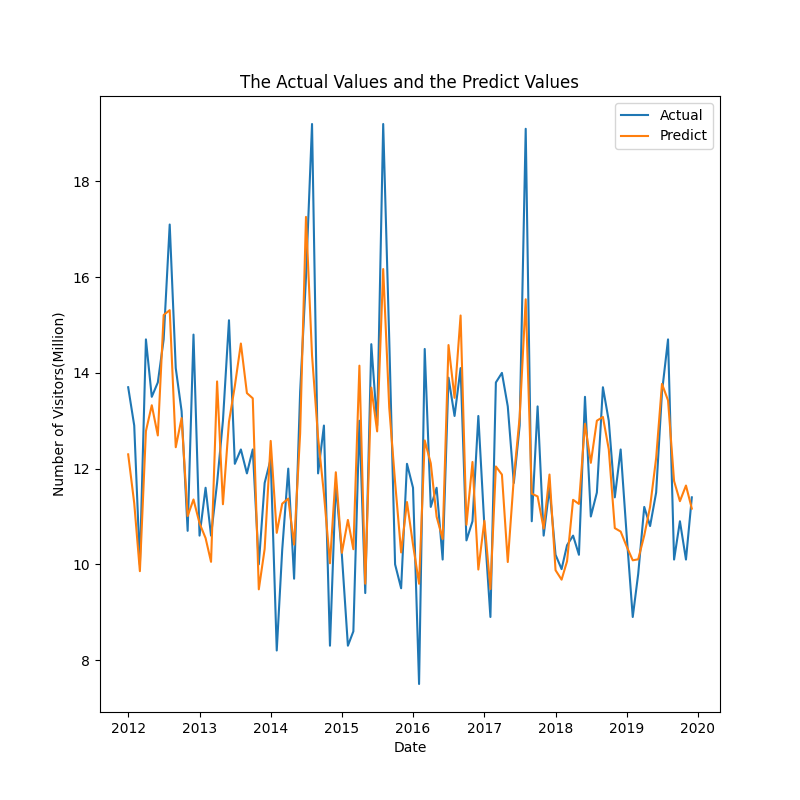
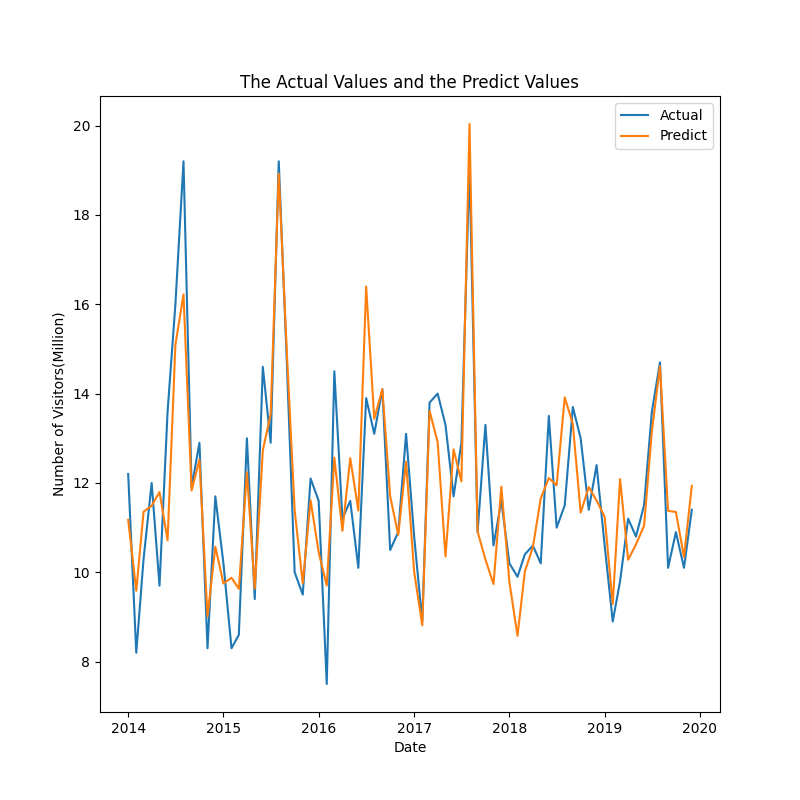
New ARIMA.png and the Chi-square=0.8 and the MAE is 3.8

diff --git a/timeSeries.py b/timeSeries.py
@@ -27,7 +27,7 @@ for item in list:
     plt.title('Number of visistors in '+item[1])
     plt.savefig('timeSeries/'+item[0]+'_time_series.png')
     plt.show()
-list=[12.29819540279861, 11.278485825731076, 9.85705219195776, 12.783605355143383, 13.324147350708994, 12.692912311176851, 15.210175550265769, 15.31063863967911, 12.446807405356695, 13.055550853382137, 11.008618216675362, 11.3551891262509, 10.858375997995577, 10.547890557784164, 10.052595820821091, 13.821665376065091, 11.255565596769356, 12.978872691478951, 13.7242019782232, 14.613324240394826, 13.577581164421296, 13.469215037257346, 9.47741368428768, 10.32185751813011, 12.578491636928625, 10.658517337720768, 11.266685353547889, 11.374349620651019, 10.411517800492526, 12.734687561939149, 17.259326699947742, 14.36815112847019, 12.64868004348912, 11.474564220904407, 10.022136975538128, 11.924087435449723, 10.241050137035701, 10.928153873601403, 10.31597913591476, 14.150782421009763, 9.595971501236743, 13.692974367692907, 12.777658352433633, 16.169883092375144, 13.274519898669672, 11.721834959637516, 10.248363019771652, 11.301952299987617, 10.409651495868301, 9.59419695227325, 12.588713290193178, 12.11140476599624, 10.995182483133192, 10.530337223865502, 14.581691986665316, 13.478865743146955, 15.199347217686375, 10.82594683219174, 12.138861454131074, 9.891399804260375, 10.910515617541389, 9.484398594512633, 12.044756720054842, 11.875026878261448, 10.048383665348183, 11.80159341735364, 13.074333318699441, 15.538083860228305, 11.476036635230258, 11.418906690467711, 10.747941520107288, 11.876593550502042, 9.877213622139934, 9.679917990888487, 10.062854676509227, 11.348007304341838, 11.262043420958049, 12.936014133728525, 12.12129008029449, 13.000710163370696, 13.079171069330451, 12.40382226198477, 10.756449430833337, 10.685089994238124, 10.372074313836764, 10.084384832113136, 10.10495968366646, 10.603022569936346, 11.202375390513778, 12.220967255066665, 13.770698571947996, 13.42501470377252, 11.739663007917018, 11.3200668771569, 11.646477278145625, 11.16451836317375]
+list=[11.176324024889803, 9.586669689232346, 11.357963048614193, 11.489515213022441, 11.79658440313964, 10.717373750094904, 15.097788546246084, 16.2194101113754, 11.832229699623305, 12.518256656136199, 9.014130148498916, 10.57445154684034, 9.750474692460907, 9.878126693884434, 9.63028389851492, 12.239854455300748, 9.636456662273986, 12.731773782571148, 13.536696803393731, 18.925051252270485, 14.92850921048324, 11.382444980955396, 9.757059622219991, 11.61088045677361, 10.446602500914343, 9.703650362699376, 12.568248882573265, 10.928788941727753, 12.55413310221376, 11.382215382054556, 16.395693841839233, 13.43593218770847, 14.100665827466367, 11.69838861874631, 10.839639859753241, 12.476822707754714, 10.007995247421503, 8.813480459075302, 13.613749114977278, 12.913950433213863, 10.353843857558125, 12.749651331888503, 12.035300346096632, 20.035140210893665, 10.914511373356627, 10.288214116713212, 9.735451655929147, 11.917350135418383, 9.781009620350119, 8.57814626994522, 10.012921975844172, 10.565187066893934, 11.65413260003662, 12.109484918820803, 11.948294894770086, 13.917804170527146, 13.317764325862397, 11.336236249837162, 11.907894559381441, 11.608002552148008, 11.244766773974638, 9.29063763635905, 12.086747650155505, 10.281786869411654, 10.62451114114261, 11.03963936911565, 13.162035460994955, 14.613767882664991, 11.375795029637308, 11.35008153976724, 10.342629941618053, 11.935732456529475]
 output=[]
 sum=0
 for i in range(len(list)):

diff --git a/ARIMAModel.py b/ARIMAModel.py
@@ -33,7 +33,7 @@ for i in range(2011, 2020):
 #Read the data from database and set the date as index.
 timeData=rfd.readFrom('visitor', 'age').groupby(['Year', 'Month']).sum().reset_index()
 timeData['date']=date
-timeData=timeData.set_index(pd.to_datetime(timeData['date']))
+timeData=timeData.set_index(pd.to_datetime(timeData['date'], format='%Y-%m'))
 timeData=timeData.drop(columns=['Year', 'Month', 'date'])
 #To reduce the data fluctuation range, make logarithm operation
 tsLog=np.log(timeData)
@@ -72,13 +72,13 @@ plt.show()
 print(teststationarity(residual))
 draw_acf_pacf(tsLog, 30)
 #Build the ARIMA model
-model = ARIMA(tsLog, order=(12, 0, 12))
+model = ARIMA(tsLog, order=(36, 0, 5))
 resultArima = model.fit( disp=-1, method='css')
 predictTs = resultArima.predict()
 predict=np.exp(predictTs).reset_index()
 predict.columns=['date', 'Count']
 predict=predict.set_index(predict['date']).drop(columns=['date'])
-timeData=timeData.iloc[12:]
+timeData=timeData.iloc[36:]
 plt.figure(figsize=(8, 8))
 plt.plot(timeData)
 plt.plot(predict)
@@ -88,7 +88,8 @@ plt.xlabel('Date')
 plt.ylabel('Number of Visitors(Million)')
 plt.savefig('figures/ARIMA.png')
 plt.show()
-#Chi_square=2.02, MAE=4.03
+#Chi_square=0.80, MAE=3.8
 print(rfd.meanAbsoluteError(predict['Count'].to_list(), timeData['Count'].to_list()))
 print(ss.chisquare(timeData['Count'].to_list(), f_exp=predict['Count'].to_list()))
+print(np.sqrt(mean_squared_error(timeData['Count'].to_list(), predict['Count'].to_list())))
 print(predict['Count'].to_list())

diff --git a/transferModel.py b/transferModel.py
@@ -10,7 +10,7 @@ total=ageData.groupby('Year').sum().reset_index()
 list=[('married', 'married'), ('gender', 'female')]
 plt.figure(figsize=(8, 8))
 plt.plot(total['Year'], total['Count'], marker='o')
-ARIMA=[150.6, 144.7, 146.7, 144.4, 142.3, 140.3, 137.2, 137.7]
+ARIMA=[141.4, 144.0, 146.5, 143.4, 136.7, 137.3]
 for i in list:
     data = rfd.readCertainVisitor('visitor', i[0], i[1]).groupby('Year').sum().reset_index()
     x = data['Year'].values.reshape(-1, 1)
@@ -33,11 +33,11 @@ for i in list:
     kf=ss.chisquare(total['Count'].to_list(), f_exp=predictions[:-1].flatten())
     print(kf)
     print(rfd.meanAbsoluteError(total['Count'].to_list(), predictions[:-1].flatten()))
-plt.legend(['Actual value', 'Prediction value based on married visitor', 'Prediction value based on female visitor'])
+plt.legend(['Actual value', 'Prediction value based on married visitor', 'Prediction value based on female visitor', 'ARIMA'])
 plt.xlabel('Year')
 plt.ylabel('Number of Visitors(Million)')
 plt.title('Total Number of Visitors Over years')
 plt.savefig('figures/predictionTransferModel.png')
 plt.show()
-print(ss.chisquare(total['Count'].to_list()[1:], f_exp=ARIMA))
-print(rfd.meanAbsoluteError(total['Count'].to_list()[1:], ARIMA))
+print(ss.chisquare(total['Count'].to_list()[3:], f_exp=ARIMA))
+print(rfd.meanAbsoluteError(total['Count'].to_list()[3:], ARIMA))
